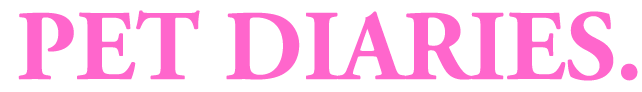
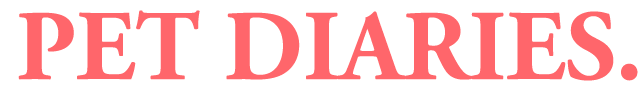
change

Changed region(s): [[0.3427, 0.1087, 0.9969, 0.8913], [0.0312, 0.1087, 0.3115, 0.8696]]

diff --git a/pet/index.html b/pet/index.html
@@ -1,5 +1,5 @@
 <!DOCTYPE html>
-<html class="gr__"><head>
+<html class="gr__ gr__zander-m_github_io"><head>
 <meta http-equiv="content-type" content="text/html; charset=UTF-8">
 	<meta charset="utf-8">
 	<title>Home-Personal Website</title>
@@ -8,17 +8,17 @@
 </head>
 <body data-gr-c-s-loaded="true">
 	<div id="header">		
-	<a href="index.html"><img id="title" alt="Pet Diaries." src="index_files/title.png"></a>
+	<a href="https://zander-m.github.io/Website/pet/index.html"><img id="title" alt="Pet Diaries." src="index_files/title.png"></a>
 			<div>
 			
 			
 			
       
 <ul>
-			<li class="tab"><a href="index.html">Home</a></li>
-			<li class="tab"><a href="pet.html">Pet</a></li>
-			<li class="tab"><a href="shop.html">Shop</a></li>
-<li class="tab" style="float: right;"><a class="active" href="contact.html">Contact Us</a></li>
+			<li class="tab"><a href="https://zander-m.github.io/Website/pet/index.html">Home</a></li>
+			<li class="tab"><a href="https://zander-m.github.io/Website/pet/pet.html">Pet</a></li>
+			<li class="tab"><a href="https://zander-m.github.io/Website/pet/shop.html">Shop</a></li>
+<li class="tab" style="float: right;"><a class="active" href="https://zander-m.github.io/Website/pet/contact.html">Contact Us</a></li>
       		<div></div></ul></div>
 		</div>
 	

diff --git a/pet/index_files/style.css b/pet/index_files/style.css
@@ -4,6 +4,15 @@ body
 	margin: 0;
 }
 
+#header
+{
+	margin: 0;
+	background:linear-gradient(to right,pink,purple);
+	width: 100%;
+	top: 0;
+	height: auto;
+	text-align: center;
+}
 
 .main_content 
 {
@@ -12,6 +21,43 @@ body
 	right: 0;
 }
 
+ul
+{
+	list-style-type:none;
+	margin:auto;
+	padding:0;
+	overflow: hidden;
+	width: 70%;
+	
+	
+	
+	bottom: auto;
+}
+
+li
+{
+	float: left;
+
+}
+
+li a
+{
+	display: block;
+	color: purple;
+	text-align: center;
+	padding: 14px 16px;
+	text-decoration: none;
+}
+
+li a:active
+{
+	color:pink;
+}
+
+li a:hover
+{ transition: 0.5s;
+	background-color: #C366A8 ;
+}
 
 .tab
 {
@@ -24,6 +70,17 @@ body
 	text-align:center;
 	margin:auto;
 	color: purple;
+}
+
+li a.active
+{
+	color:#FFC0CB;
+}
+
+li a.active:hover
+{
+	transition: 0.5s;
+	background-color: #C366A8
 }
 
 h1 
@@ -49,4 +106,7 @@ h1
 	margin: auto;
 }
 
-
+#title
+{
+	height: 56px
+}

diff --git a/pet/index_files/header.css b/pet/index_files/header.css
@@ -9,11 +9,6 @@
 	font-size: 0;
 }
 
-#title
-{
-	height: 56px
-}
-
 ul
 {
 	list-style-type:none;
